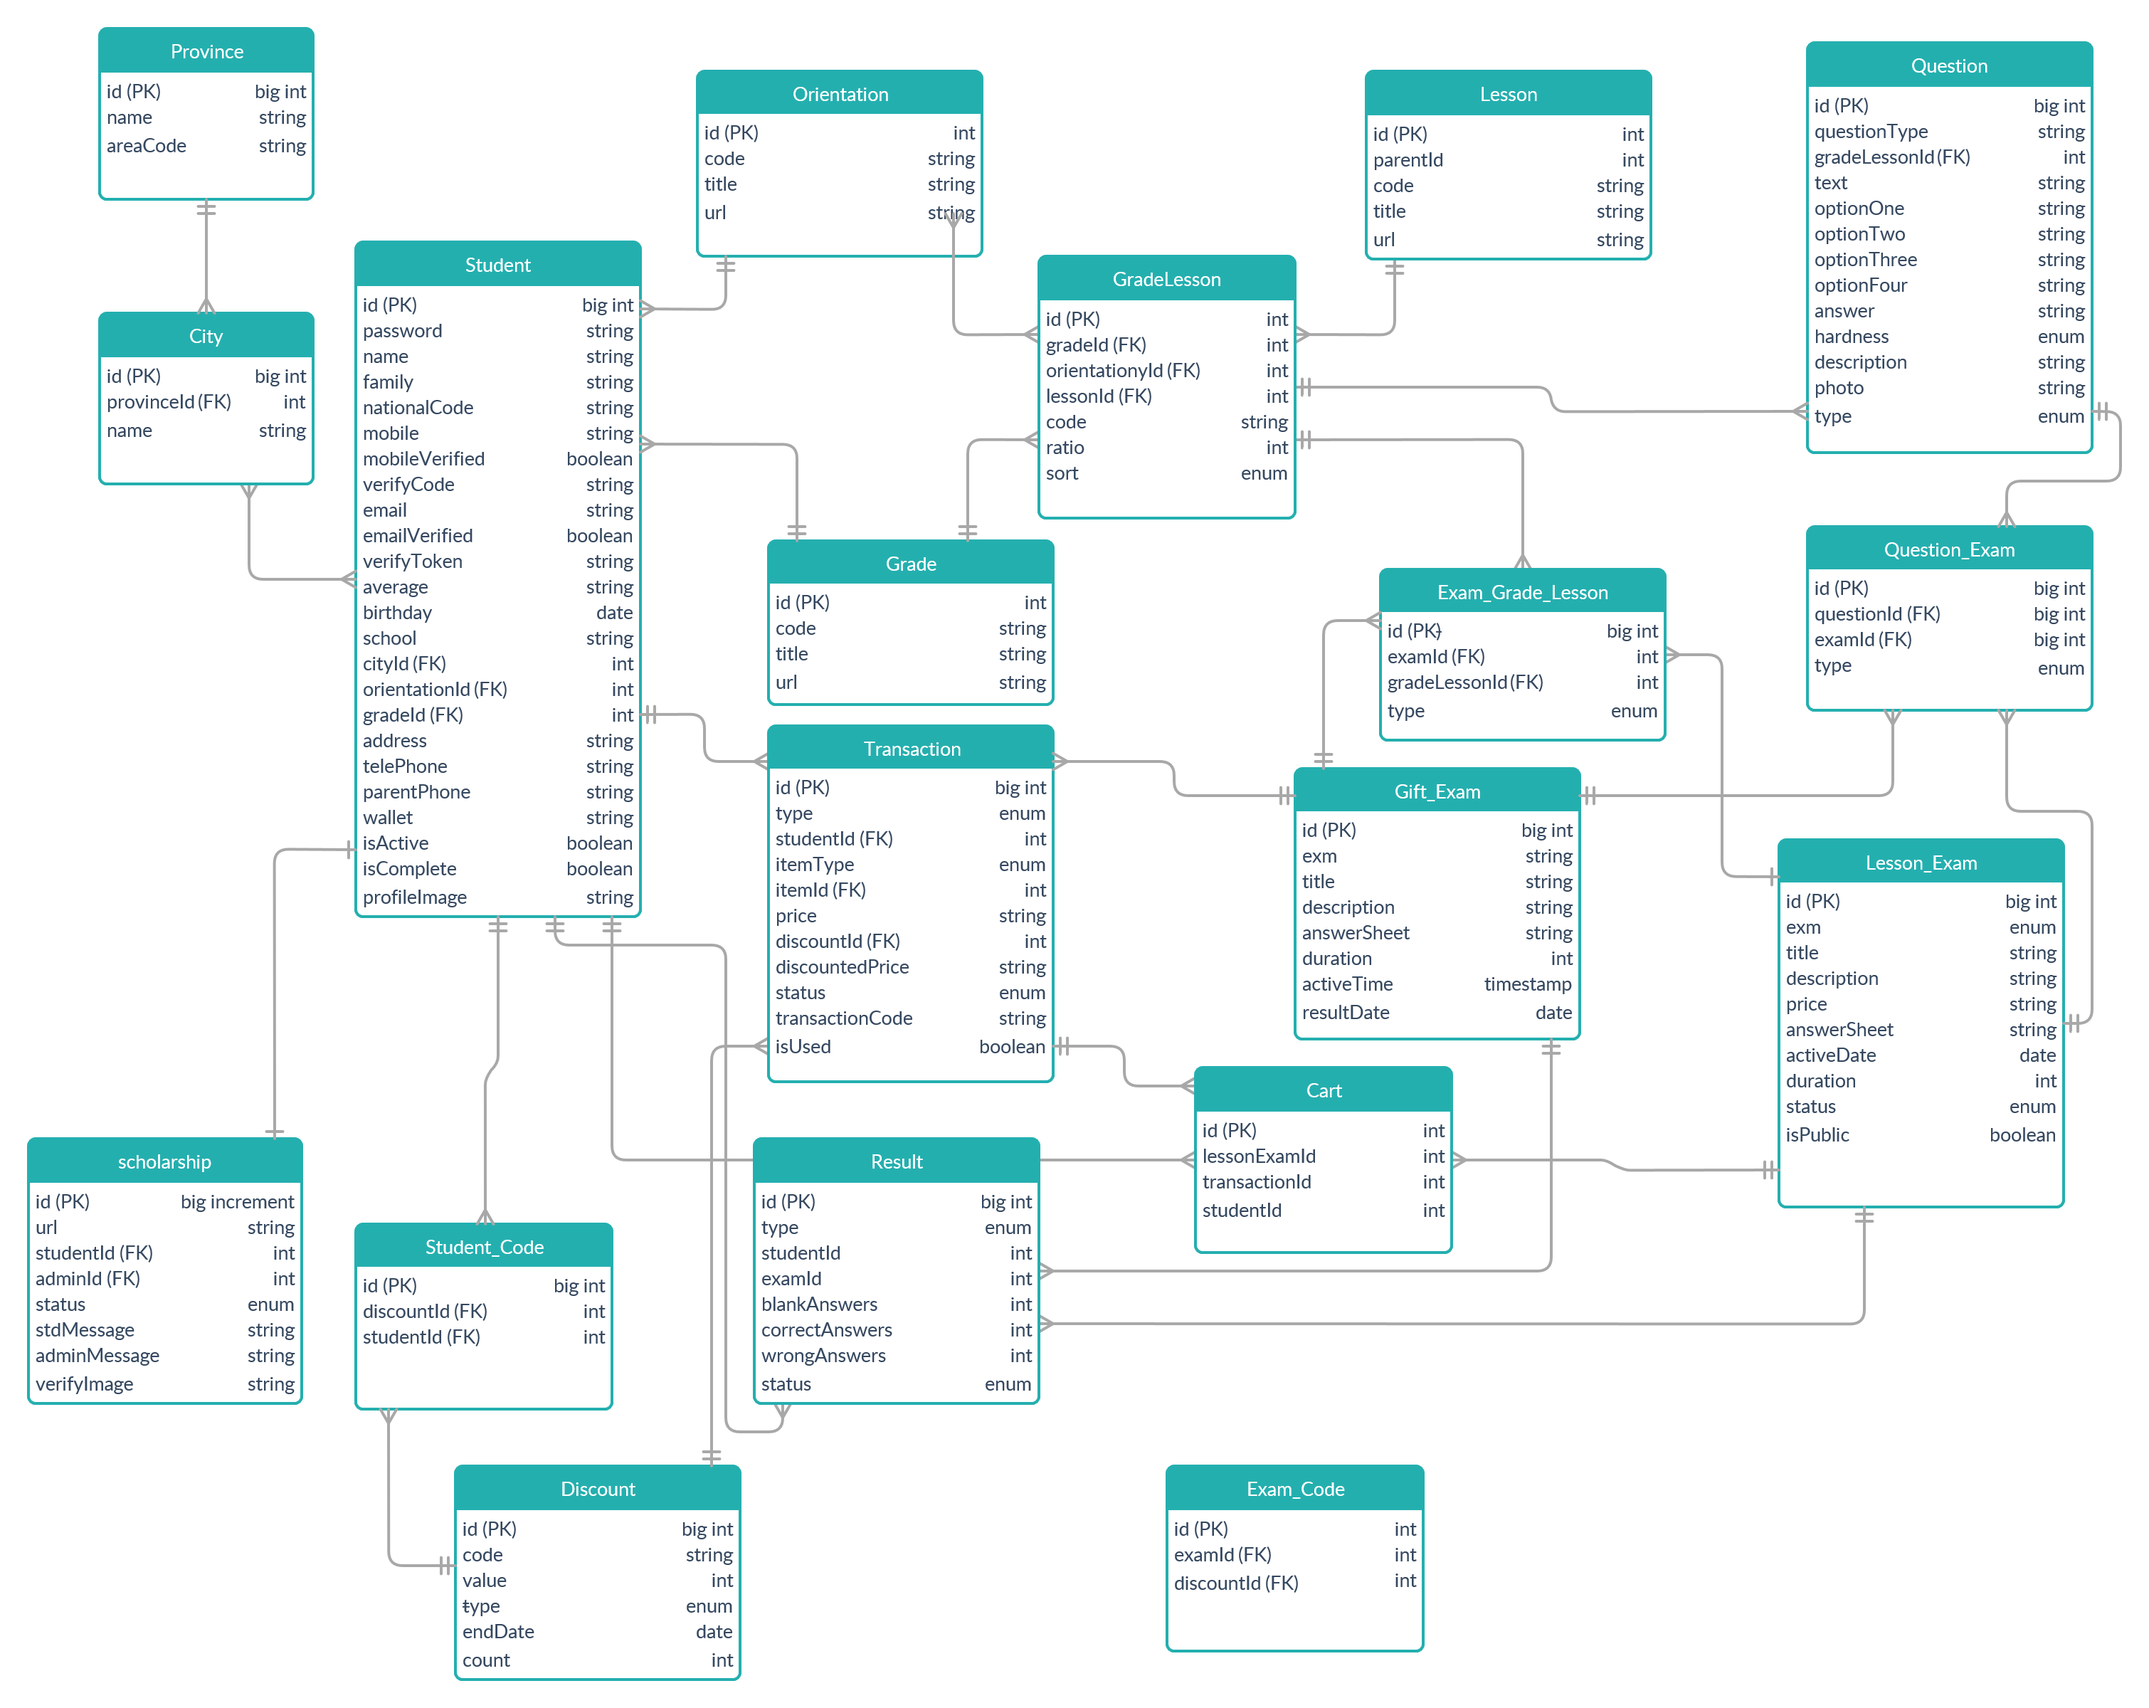
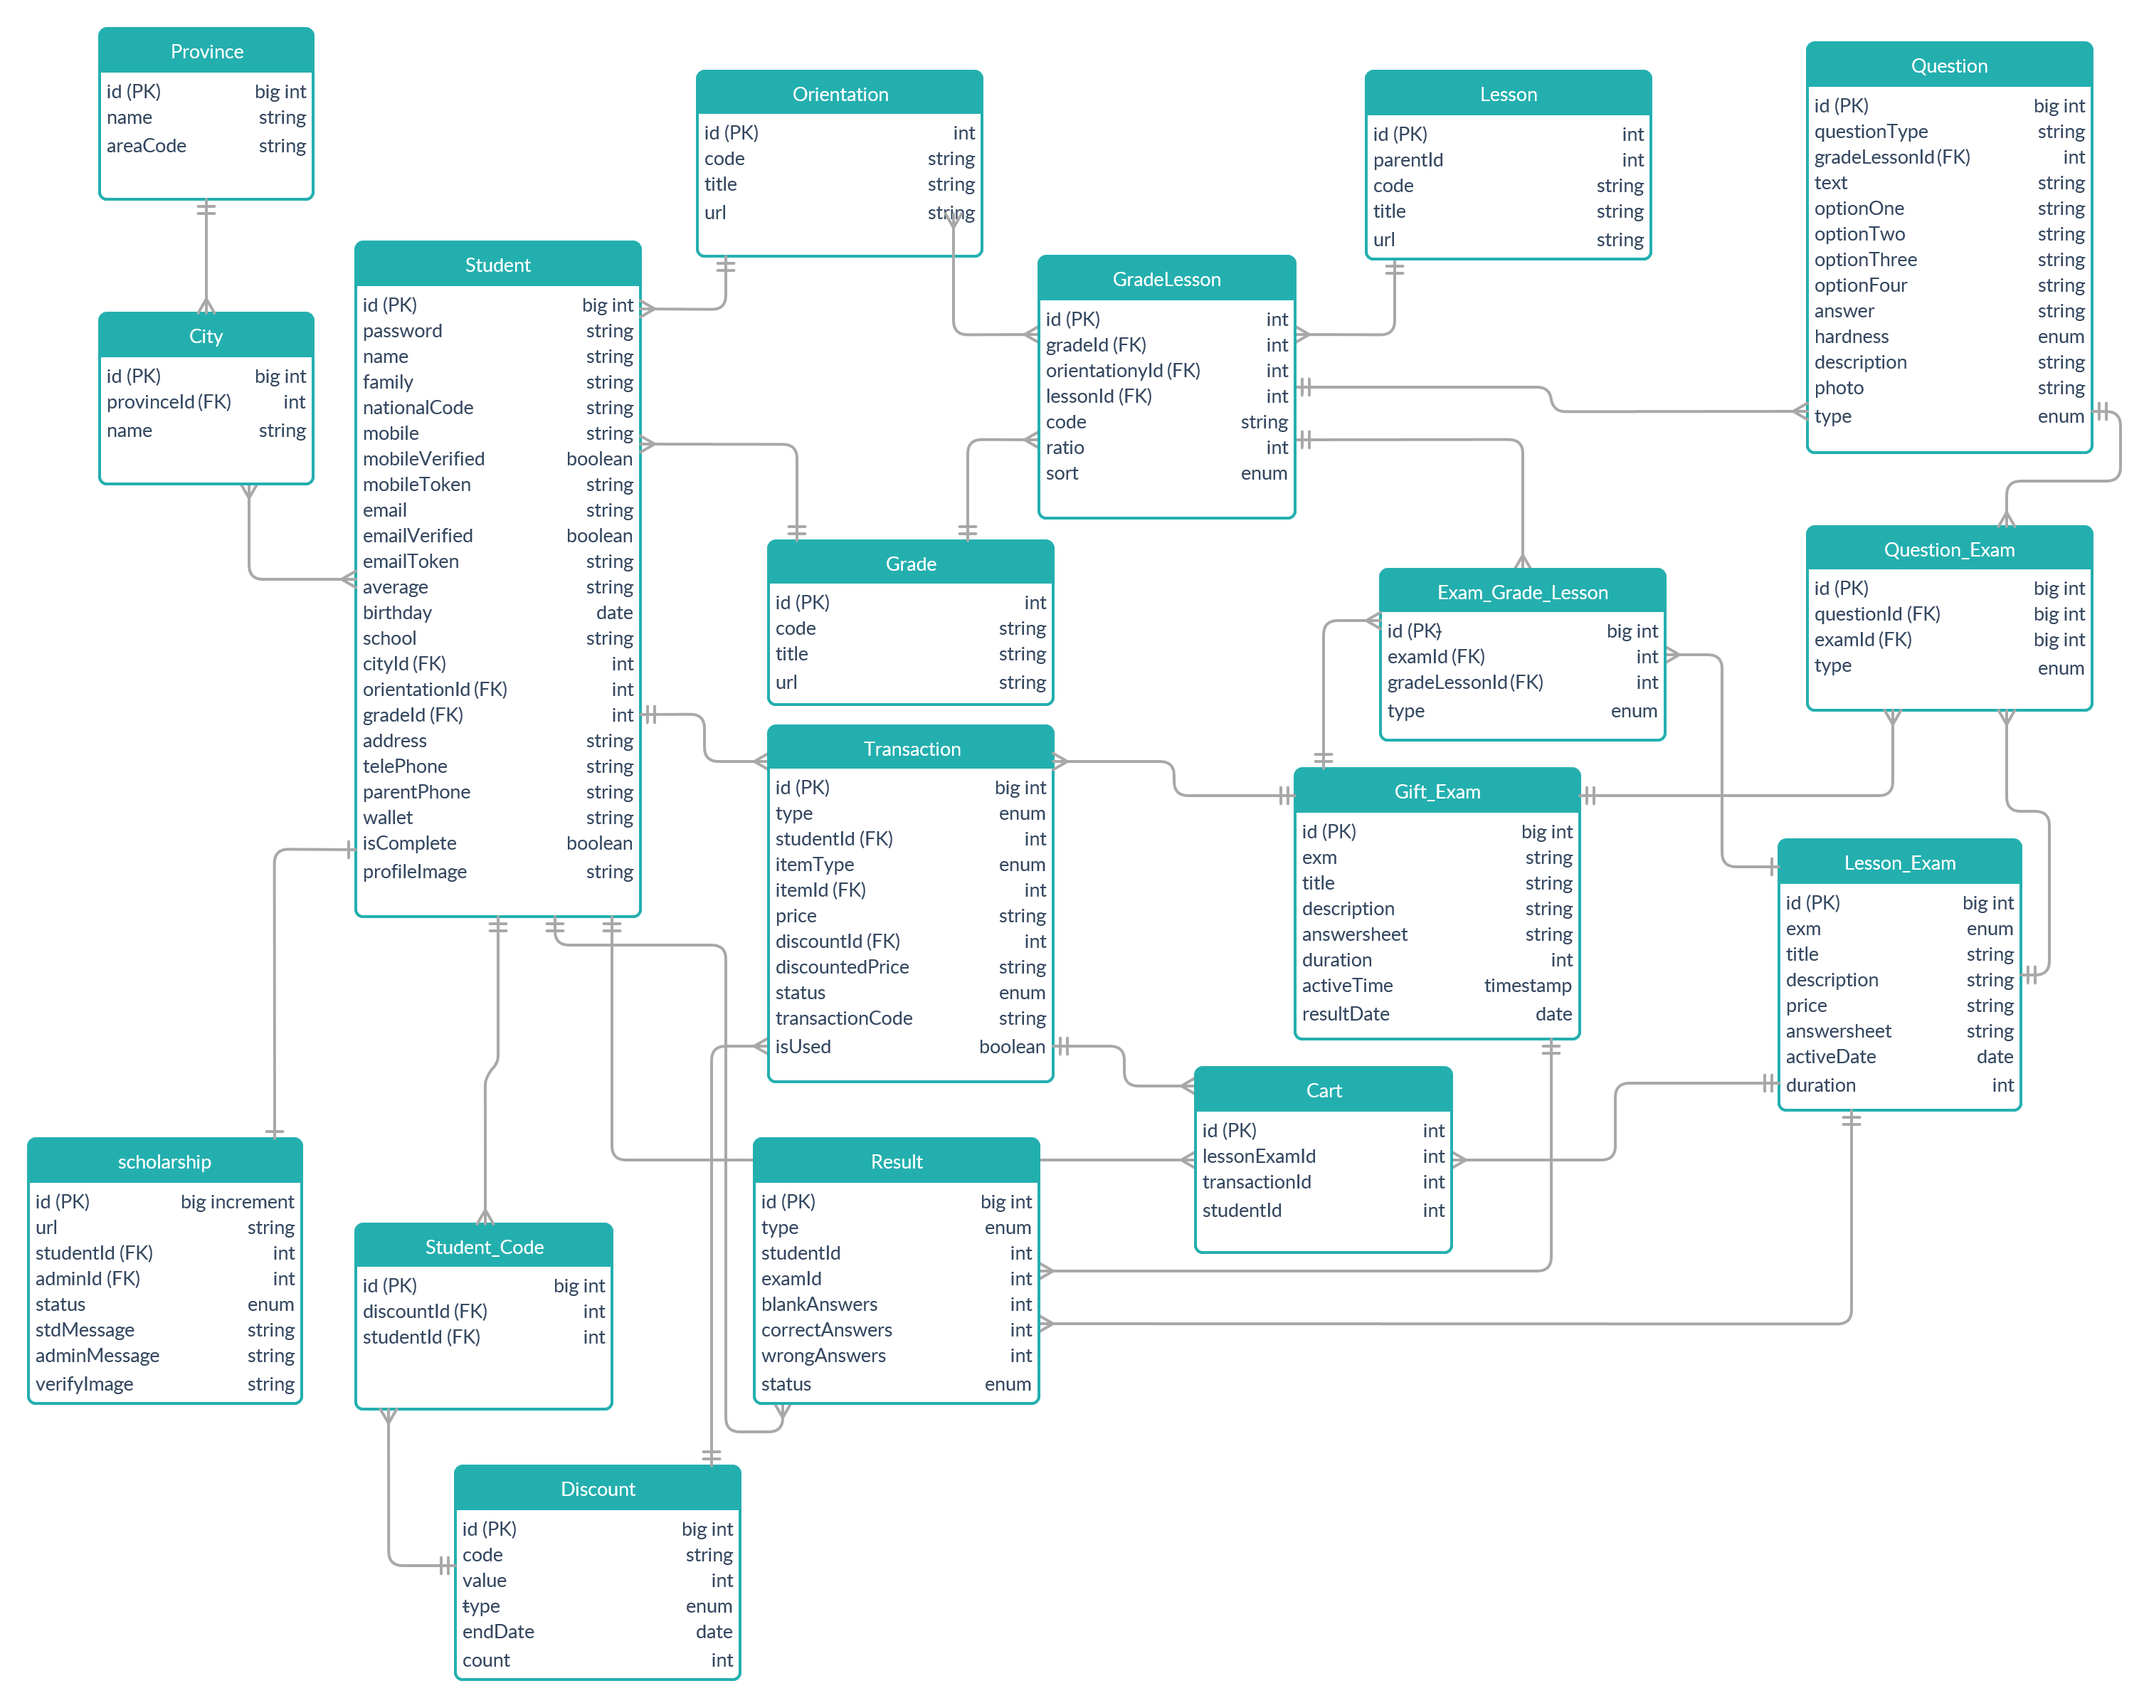
fixes

diff --git a/app/Http/Controllers/Student/Auth/AuthController.php b/app/Http/Controllers/Student/Auth/AuthController.php
@@ -7,7 +7,6 @@ use App\Http\Controllers\Controller;
 use Illuminate\Support\Facades\Auth;
 use Illuminate\Support\Facades\Cookie;
 use Illuminate\Support\Facades\Hash;
-use Illuminate\Support\Facades\Mail;
 use App\model\Student as Student;
 
 class AuthController extends Controller
@@ -25,9 +24,19 @@ class AuthController extends Controller
 
 	public function loginForm()
 	{
-        $studentInfo=cookie::get('studentInfo');
-        $studentPass=cookie::get('studentPass');
-        return view('student.auth.login',compact('studentInfo','studentPass'));
+
+        if (Auth::guard('student')->check())
+        {
+            return redirect()->route('student_dashboard_home');
+        }
+
+        else
+        {
+            $studentInfo=cookie::get('studentInfo');
+            $studentPass=cookie::get('studentPass');
+            return view('student.auth.login',compact('studentInfo','studentPass'));
+        }
+
     }
 
 	public function registerForm()
@@ -62,8 +71,6 @@ class AuthController extends Controller
 				Cookie::queue('studentPass', '');
 			}
 
-
-
 			return redirect()->route('student_dashboard_home');
 
         }
@@ -76,12 +83,14 @@ class AuthController extends Controller
 				Cookie::queue('studentInfo', $request->input('mobile_email'), 90 * 24 * 60);
 				Cookie::queue('studentPass', $request->input('password'), 90 * 24 * 60);
             }
+
             else
 			{
 				Cookie::queue('studentInfo', '');
 				Cookie::queue('studentPass', '');
 
-			}
+            }
+
             return redirect()->route('student_dashboard_home');
 
         }

diff --git a/database/migrations/2019_08_10_125624_create_student_table.php b/database/migrations/2019_08_10_125624_create_student_table.php
@@ -23,8 +23,10 @@ class CreateStudentTable extends Migration
             $table->string('password');
             $table->string('mobile');
             $table->boolean('mobileVerified')->default(0);
+            $table->string('mobileToken')->nullable();
             $table->string('email')->nullable();
             $table->boolean('emailVerified')->default(0);
+            $table->string('emailToken')->nullable();
             $table->string('average')->nullable();
             $table->integer('orientationId')->nullable();
             $table->integer('gradeId')->nullable();
@@ -35,10 +37,7 @@ class CreateStudentTable extends Migration
 			$table->string('telePhone')->nullable();
 			$table->string('parentPhone')->nullable();
 			$table->integer('wallet')->default(0);
-			$table->string('mobileToken')->nullable();
-            $table->string('emailToken')->nullable();
             $table->string('profileImage')->nullable();
-			$table->boolean('isActive')->default(0);
 			$table->boolean('isComplete')->default(0);
             $table->rememberToken();
 			$table->timestamps();

diff --git a/routes/web.php b/routes/web.php
@@ -103,8 +103,9 @@
 
             Route::get('/adminLogin', 'LoginController@show')->name('admin_auth_show');
             Route::post('/adminLogin', 'LoginController@login')->name('admin_login_submit');
-            Route::get('/adminLogOut', 'LoginController@logout')->name('admin_logout');
+
         });
+
         Route::middleware('auth:admin')->namespace('Dashboard')->prefix('admin/dashboard')->group(function()
         {
 
@@ -281,6 +282,8 @@
                          ->name('admin_students_discountRemove');
                 });
             });
+
+            Route::get('/adminLogOut', 'DashboardController@logout')->name('admin_logout');
         });
     });
 

diff --git a/database/migrations/2019_08_10_132304_create_lesson_exam_table.php b/database/migrations/2019_08_10_132304_create_lesson_exam_table.php
@@ -27,8 +27,6 @@
                 $table->integer('price')->nullable()->default(0);
                 $table->date('activeDate')->nullable();
                 $table->integer('duration')->nullable();
-                $table->enum('status', ['COMPLETE', 'IN-QUESTION', 'IN-COMPLETE']);
-                $table->boolean('isPublic')->default(false);
                 $table->timestamps();
                 $table->softDeletes();
             });

diff --git a/app/Http/Controllers/Admin/Dashboard/DashboardController.php b/app/Http/Controllers/Admin/Dashboard/DashboardController.php
@@ -17,6 +17,13 @@ class DashboardController extends Controller
         $lessonExams = count(LessonExam::all());
         $giftExams   = count(GiftExam::all());
 		return view('admin.dashboard.exams',compact('lessonExams','giftExams'));
-	}
+    }
+
+	public function logout()
+	{
+		Auth::guard('admin')->logout();
+
+		return redirect()->route('admin_auth_show');
+    }
 
 }

diff --git a/app/model/LessonExam.php b/app/model/LessonExam.php
@@ -44,14 +44,6 @@
                'lessons',
             ];
 
-        protected $casts
-            = [
-
-                'isPublic' => 'boolean',
-
-            ];
-
-
         protected static function boot()
         {
 

diff --git a/app/Http/Controllers/Admin/Auth/LoginController.php b/app/Http/Controllers/Admin/Auth/LoginController.php
@@ -58,13 +58,4 @@ class LoginController extends Controller
 		}
 
 	}
-
-
-
-	public function logout()
-	{
-		Auth::guard('admin')->logout();
-
-		return redirect()->route('admin_auth_show');
-    }
 }

diff --git a/app/Http/Controllers/Student/Dashboard/DashboardController.php b/app/Http/Controllers/Student/Dashboard/DashboardController.php
@@ -7,7 +7,6 @@ use App\Http\Controllers\Controller;
 use App\model\StudentCode;
 use App\model\Transaction;
 use App\model\LessonExam;
-use App\model\Result;
 use Illuminate\Support\Facades\Auth;
 
 
